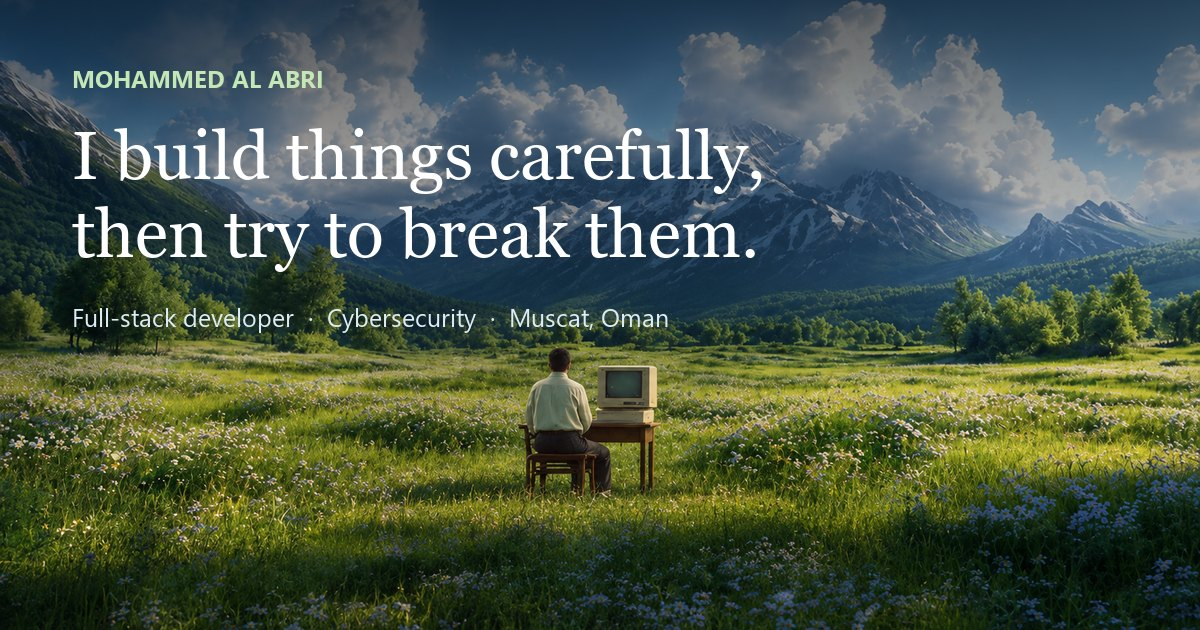
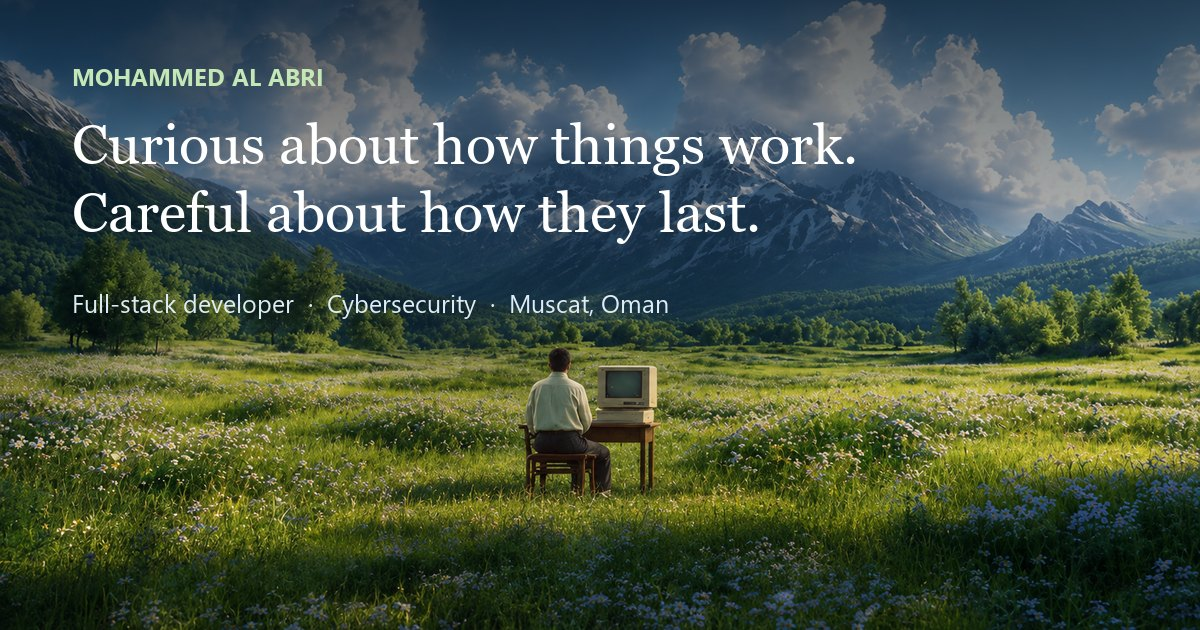
Rewrite the hero copy, fix the refresh flash and the legend text
Copy
- New headline: "Curious about how things work. Careful about how they
  last." The previous "I build things carefully, then try to break them"
  and "thinking hard about how they fail" read as negative, which is the
  wrong note for a page whose job is building trust.
- New lede states the three things he can be hired for in one breath:
  building, securing what he builds, and security work in its own right.
- "Build it. Then break it." becomes "Two halves of the same instinct",
  and the Breaking side becomes Protecting, reframing security as guarding
  the system rather than attacking it. Same substance, no aggressive edge.
- Softened the matching lines in the About and stack sections.
- Regenerated the social card, which had the old headline baked in.

Refresh flash
- Replace the drawn SVG landscape with an inline 430-byte blurred copy of
  the actual photograph. The SVG was visibly a different picture, so every
  refresh flashed a cartoon scene before the photo arrived. The placeholder
  takes the same dark-mode grade, or it would flash bright.
- Drop parallax.ts. It only drove the SVG layers, so it was writing a
  custom property nothing read, on every scroll event.

Legend text
- The stack legend items still carried `on-scene` after the list moved
  into a glass panel. The colour was overridden but the dark halo that
  class applies was not, so those items had a smudge no other glass text
  had. They use `on-glass-soft` now and match the body text exactly.

Changed region(s): [[0.0617, 0.181, 0.7092, 0.4222], [0.0617, 0.4524, 0.555, 0.5429], [0.0617, 0.0905, 0.2775, 0.1508]]

diff --git a/src/data/site.ts b/src/data/site.ts
@@ -21,11 +21,15 @@ export const person = {
   cv: "/cv/Mohammed-Al-Abri-CV.pdf",
 
   /** The line that lands before any job title does. */
-  headline: "I build things carefully,\nthen try to break them.",
+  headline: "Curious about how things work.\nCareful about how they last.",
 
-  /** One sentence for search results, link previews and the meta description. */
+  /**
+   * Doubles as the hero lede and the meta description, so it has to state the
+   * three things he can be hired for in one breath: building, securing what he
+   * builds, and security work in its own right.
+   */
   summary:
-    "Computer Science graduate specialising in cybersecurity, building backends in .NET and thinking hard about how they fail. Based in Muscat, Oman.",
+    "I build backends in .NET, secure what I build, and take on cybersecurity work in its own right. Computer Science graduate, based in Muscat, Oman.",
 
   roles: ["Full-stack developer", "Cybersecurity"],
 } as const;
@@ -36,8 +40,8 @@ export const about = {
   title: "Curious first,\nengineer second.",
   paragraphs: [
     "I am a Computer Science graduate from Sultan Qaboos University, where I specialised in cybersecurity and computing infrastructure. What actually drives me is simpler than that: I want to understand how a thing works all the way down, and I am not satisfied until I do.",
-    "That curiosity pulls in two directions at once. One half of me wants to build: to design the data model, get the architecture right, and ship something people rely on. The other half immediately wants to know where it breaks, who could abuse it, and what happens on the worst day.",
-    "I have found those two instincts are the same instinct. The people who build most carefully are usually the ones who have spent time breaking things.",
+    "That curiosity pulls in two directions at once. One half of me wants to build: to design the data model, get the architecture right, and ship something people rely on. The other half wants to know it will still be standing on a bad day, and to be the reason it is.",
+    "I have found those two instincts are the same instinct. Building something well and protecting it are the same care, applied at different moments.",
   ],
   /** Small, human facts. These especially should become his own. */
   facts: [
@@ -54,7 +58,7 @@ export const about = {
  */
 export const duality = {
   eyebrow: "How the two halves fit",
-  title: "Build it. Then break it.",
+  title: "Two halves of the same instinct.",
   sides: [
     {
       key: "build",
@@ -69,10 +73,10 @@ export const duality = {
       ],
     },
     {
-      key: "break",
-      label: "Breaking",
-      lede: "The same systems, viewed by someone looking for a way in.",
-      body: "A rotation across SOC, application security, GRC and network security at Ooredoo taught me what enterprise defence actually looks like day to day. My graduation project went the other way, building the tooling that finds vulnerabilities rather than waiting to be told about them.",
+      key: "protect",
+      label: "Protecting",
+      lede: "The same systems, guarded against the people looking for a way in.",
+      body: "A rotation across SOC, application security, GRC and network security at Ooredoo taught me what enterprise defence actually looks like day to day. My graduation project approached it from the other side, building the tooling that finds vulnerabilities early rather than waiting to be told about them.",
       points: [
         "SIEM monitoring and incident response",
         "Nmap, Wireshark, MITRE ATT&CK",

diff --git a/src/data/scene-placeholder.ts b/src/data/scene-placeholder.ts
@@ -1,0 +1,10 @@
+/**
+ * Inline placeholder for the backdrop photograph.
+ *
+ * A 32x18 blurred JPEG of the real photo, about 430 bytes, so the first
+ * paint already looks like the scene that is loading rather than like a
+ * different picture. Regenerate with tools/build_scene_images.py whenever
+ * the backdrop changes.
+ */
+export const scenePlaceholder =
[1 lines of base64/hex data omitted]

diff --git a/README.md b/README.md
@@ -72,9 +72,12 @@ commit history, or any image tool — just keep the filenames.
 Dark mode grades the same photograph down to dusk with a CSS filter rather than
 loading a second image.
 
-Behind the photo sits a layered SVG landscape (`NatureScene.astro`) that
-re-themes from CSS variables. It is what shows while the photo downloads and if
-the photo ever 404s. Pass `photo={false}` to use the drawn scene alone.
+Behind it sits an inline 430-byte blurred copy of the same photograph
+(`src/data/scene-placeholder.ts`), so the first paint already looks like the
+scene that is loading. An earlier version used a drawn SVG landscape here, but
+that was visibly a different picture and flashed on every refresh. The
+placeholder is graded by the same dark-mode filter, otherwise it would flash
+bright before the photo lands.
 
 **Composition note:** the photo puts a figure dead centre. The hero copy
 therefore sits upper-left, over sky and mountain, so the two never compete —
